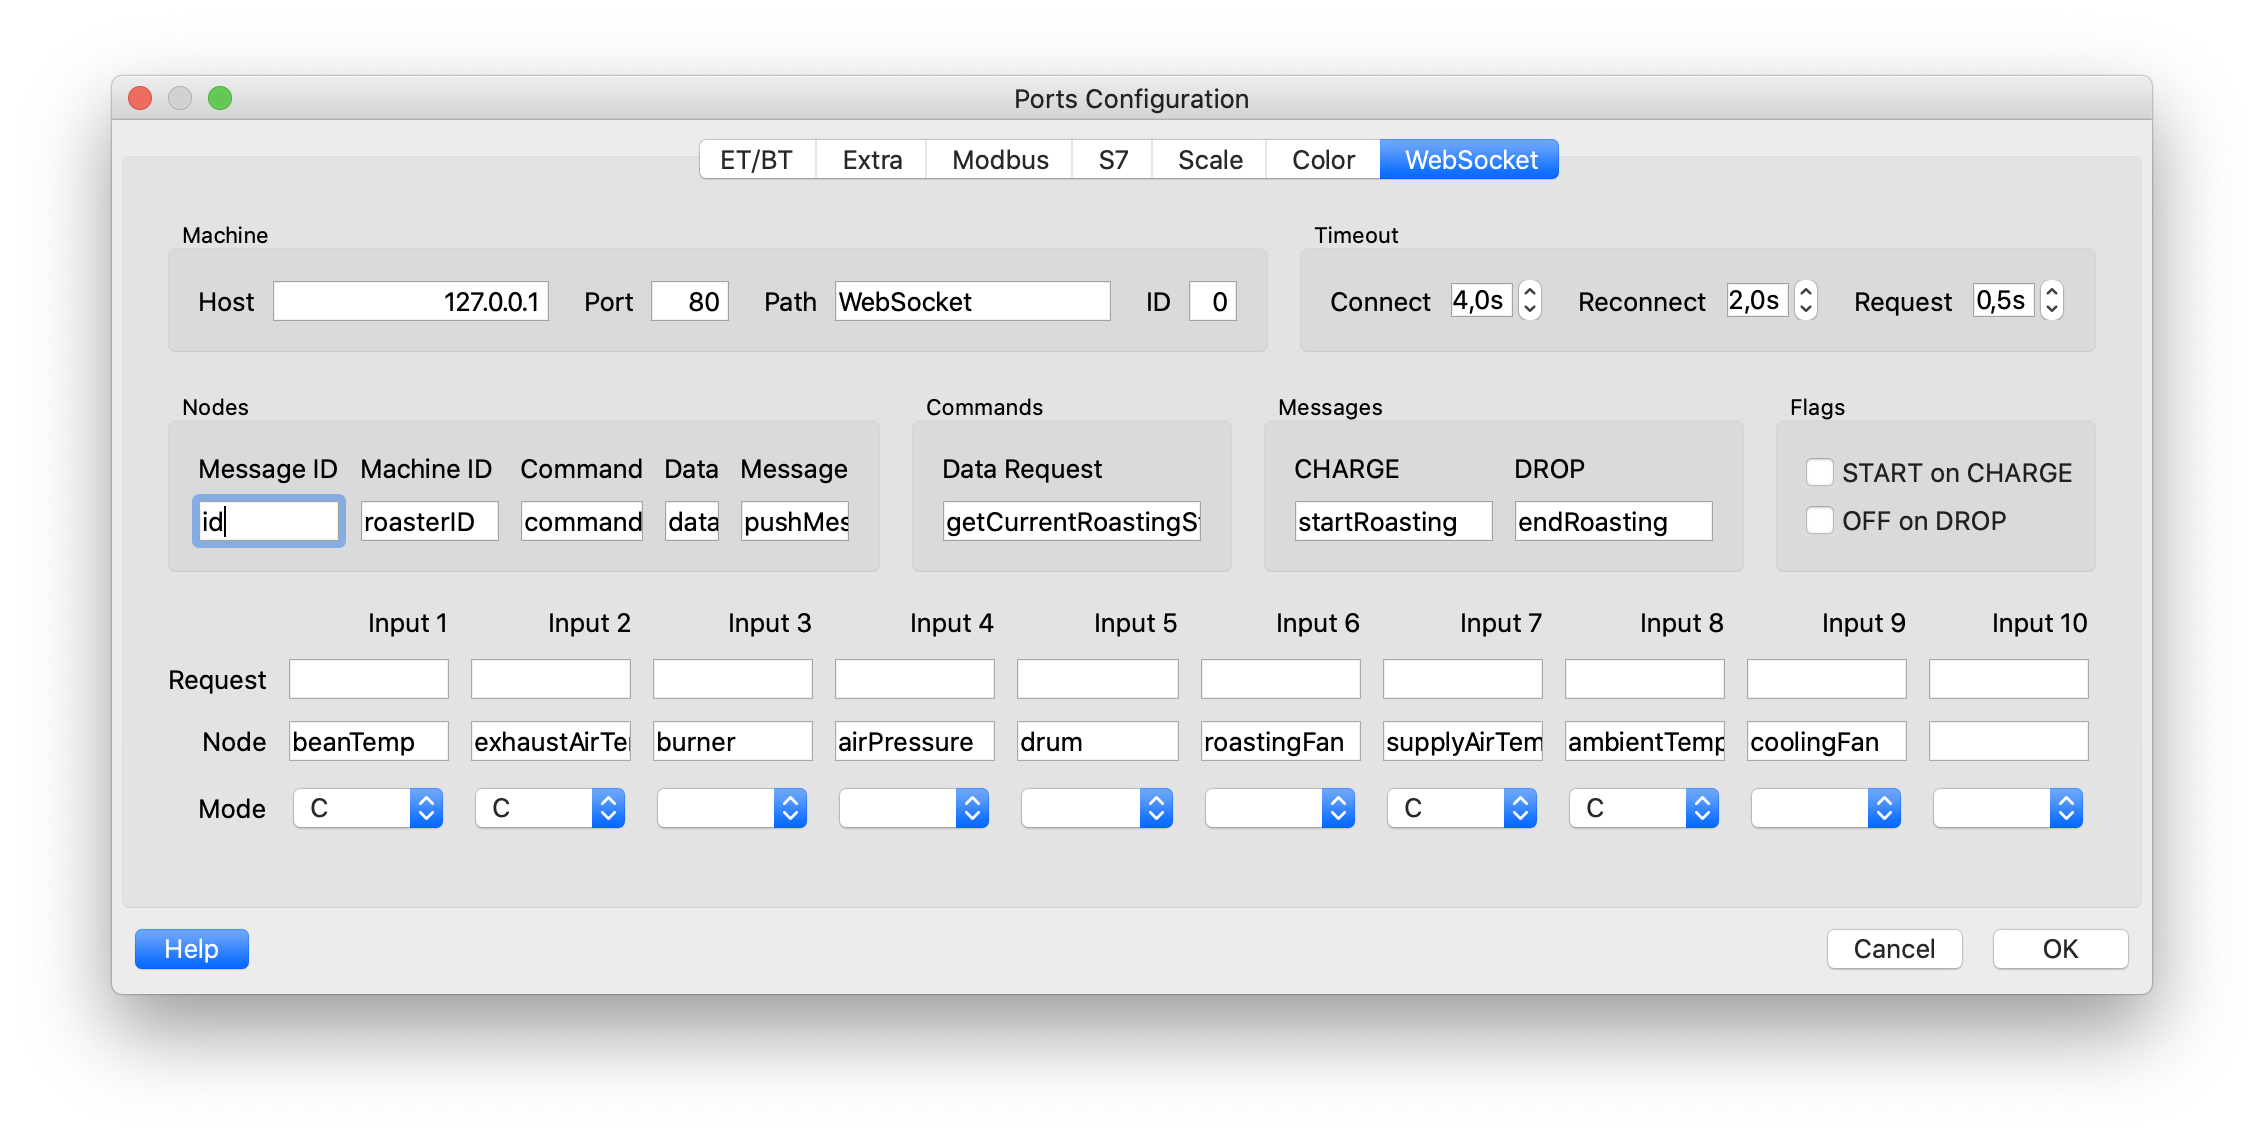
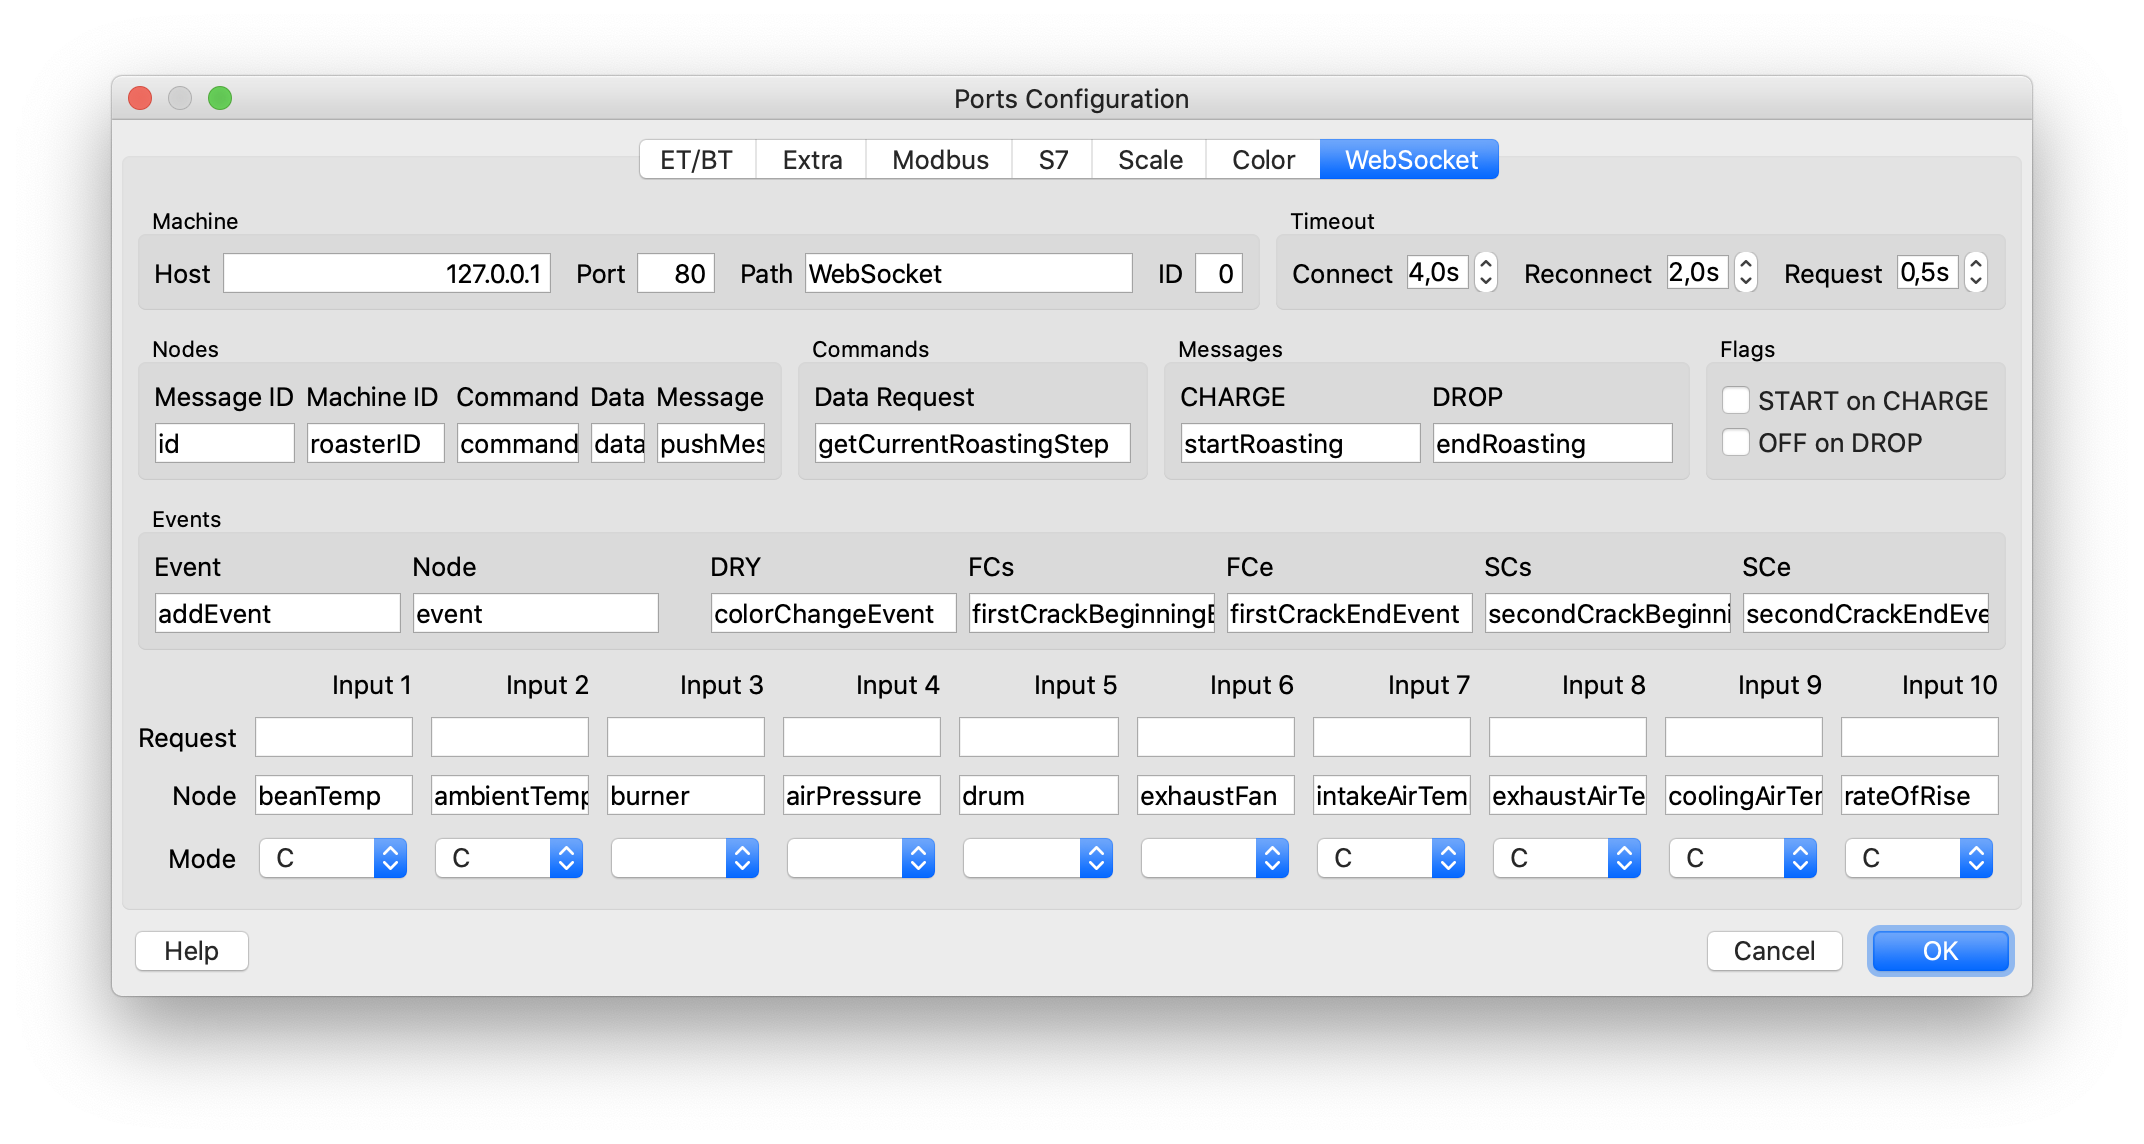
updated WebSocket documentation

diff --git a/_devices/websockets.md b/_devices/websockets.md
@@ -51,23 +51,41 @@ A data request message as described above is expected to be answered by a respon
 
 ```
 {
-  <message_id>: nnnn,
-  <data>: { <node_0> : v0, .., <node_n> : vn} 
+  <Message ID>: nnnn,
+  <Data>: { <node_0> : v0, .., <node_n> : vn} 
 }
 ```
 
 with the message id `nnn` has to correspond to the one of the request message and the `<node_0>`,..,`<node_n>` nodes hold the data for the corresponding WebSocket input channels.
 
+
+## WebSocket Push Messages
+
 Artisan is listening to two push messages that are received without an explicit request.
 
-- CHARGE Message: `{ <message>: <CHARGE> }`
-- DROP Message: `{ <message>: <DROP> }`
+- CHARGE Message: `{ <Message>: <CHARGE> }`
+- DROP Message: `{ <Message>: <DROP> }`
 
 On receiving the CHARGE message, the CHARGE event is set. On receiving the DROP message, the DROP event is set.
 
 In case Artisan is not yet recording on receiving the CHARGE message and the `START on CHARGE` flag is ticked, the recording is automatically started before the CHARGE event is registered.
 
 In case Artisan is recording on receiving the DROP message and the `OFF on DROP` flag is ticked, the recording is automatically stopped after the DROP event is registered.
+
+
+
+## WebSocket Events
+
+Artisan is listening on Event Messages of the format
+
+```
+{
+  <Message>: <Event>,
+  <data>: { <Node> : <Tag>} 
+}
+```
+
+A message with  a `<Tag>` from the set `<DRY>`, `<FCs>`, `<FCe>`, `<SCs>`, `<SCe>` activates the corresponding event button in Artisan.
 
 
 ## WebSocket Commands
